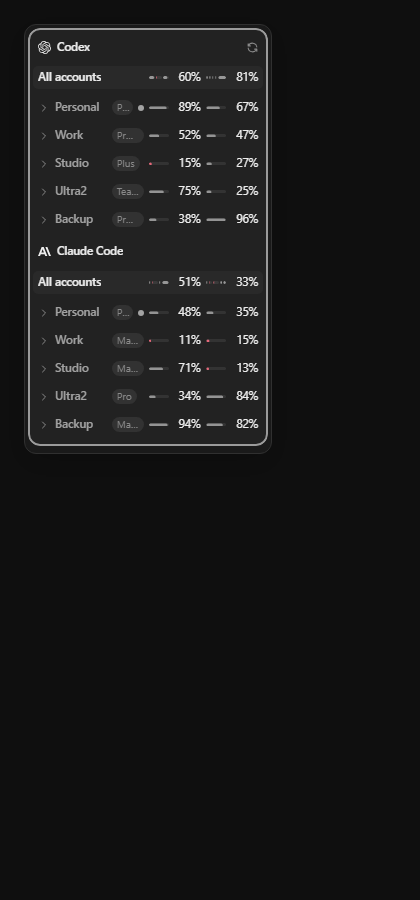
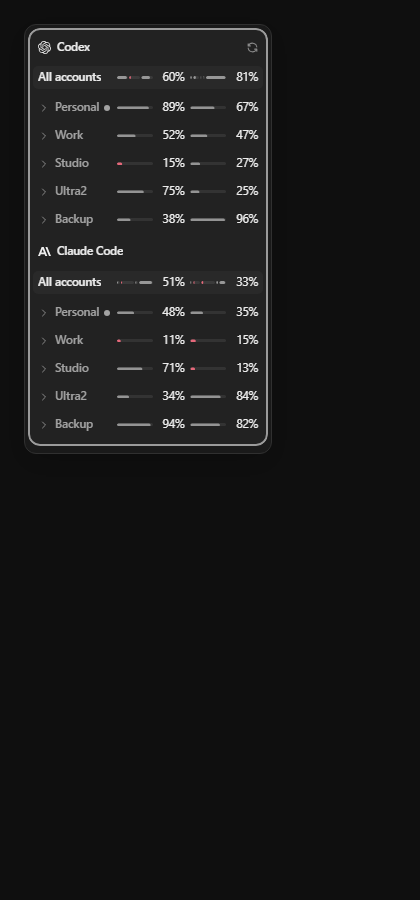
style(web): drop the plan chip from limits rows for longer bars, and fix the style tests #2143 broke
In the 5-account view the plan chips were cut to a letter and the bars were tiny. The plan is now on the line's hover and first in its open details; the bars are 36px. #2143 also failed four style tests on dev: the well's 50vh cap, the 3px closed-line bars, the chevron selector, and a hex colour plus the word gradient in the scroll fade's mask. The mask now uses black, and the tests allow a mask gradient but still no gradient fill.

Changed region(s): [[0.2786, 0.3111, 0.4952, 0.4978], [0.3714, 0.0622, 0.4952, 0.2489], [0.2786, 0.0933, 0.3405, 0.2489]]

diff --git a/apps/web/src/styles/account-limits-layout.test.ts b/apps/web/src/styles/account-limits-layout.test.ts
@@ -15,10 +15,10 @@ describe('account limits layout', () => {
     expect(usage).toContain('font-size: var(--t-xs)')
     expect(usage).toContain('border-radius: var(--r-lg)')
     expect(usage).toContain('background: color-mix(in srgb, var(--text) 4%, var(--menu-bg))')
-    // No height of its own: a fixed cap made the well scroll with the window
-    // nowhere near full once a provider listed several accounts. The popup's
-    // viewport bound and the well's flex shrink are what limit it.
-    expect(usage).not.toContain('max-height')
+    // However many accounts, the well never takes more than half the window;
+    // a longer list scrolls inside and fades at its bottom while rows wait.
+    expect(usage).toContain('max-height: 50vh')
+    expect(usage).toContain('animation-timeline: scroll(self)')
     expect(usage).toContain('flex: 0 1 auto')
     expect(usage).toContain('overflow-y: auto')
     expect(usage).toContain('overscroll-behavior: contain')
@@ -54,11 +54,13 @@ describe('account limits layout', () => {
     expect(rule('.account-menu__limit')).toContain('gap: 5px')
     const bar = rule('.account-menu__limit-bar')
     expect(bar).toContain('height: 4px')
-    expect(rule('.account-menu__account-gauge')).toContain('height: 4px')
+    // A closed account line's bars are the thin 3px kind, so a row stays one line.
+    expect(rule('.account-menu__account-gauge')).toContain('height: 3px')
     expect(bar).toContain('border-radius: var(--r-pill)')
     const fill = rule('.account-menu__limit-bar > span')
     // A red-to-green gradient read as noise; the fill matches the card's meter.
-    expect(css).not.toContain('gradient')
+    // The only gradient is the scroll fade's mask, never a fill.
+    expect(css.replace(/mask-image: linear-gradient\([^;]*\);/g, '')).not.toContain('gradient')
     expect(fill).toContain('background: color-mix(in srgb, var(--text) 52%, transparent)')
     expect(rule('.account-menu__account-gauge > span')).toContain(
       'background: color-mix(in srgb, var(--text) 52%, transparent)',
@@ -97,7 +99,7 @@ describe('account limits layout', () => {
       'text-overflow: ellipsis',
     )
     expect(css).toMatch(
-      /\.account-menu__account-line > svg,\s*\.account-menu__source \.account-menu__source-chevron \{\s*transition: none;/,
+      /\.account-menu__account-line > \.account-menu__chevron,\s*\.account-menu__source \.account-menu__source-chevron \{\s*transition: none;/,
     )
   })
 

diff --git a/apps/web/src/styles/account-limits.css b/apps/web/src/styles/account-limits.css
@@ -14,7 +14,7 @@
      no scroll range and never fades. */
   max-height: 50vh;
   --usage-fade-size: 22px;
-  mask-image: linear-gradient(to bottom, #000 calc(100% - var(--usage-fade)), transparent);
+  mask-image: linear-gradient(to bottom, black calc(100% - var(--usage-fade)), transparent);
   animation: account-usage-fade linear both;
   animation-timeline: scroll(self);
   animation-range: calc(100% - var(--usage-fade-size)) 100%;
@@ -591,7 +591,7 @@ button.account-menu__account-line:focus-visible {
 .account-menu__account-name {
   /* The name keeps a few letters before the plan chip gives way. */
   flex: 0 1 auto;
-  min-width: min(4.5em, 100%);
+  min-width: min(3em, 100%);
   overflow: hidden;
   font-weight: 500;
   text-overflow: ellipsis;
@@ -639,12 +639,12 @@ button.account-menu__account-line:focus-visible {
 
 /* A count or balance has no gauge; its text takes the gauge's room too. */
 .account-menu__account-value.is-text {
-  min-width: calc(2.4em + 24px);
+  min-width: calc(2.4em + 40px);
 }
 
 .account-menu__account-gauge {
   --limit-fill: var(--left);
-  width: 20px;
+  width: 36px;
   height: 3px;
   border-radius: var(--r-pill);
   background: color-mix(in srgb, var(--text) 9%, transparent);
@@ -667,20 +667,11 @@ button.account-menu__account-line:focus-visible {
   padding-left: 19px;
 }
 
-/* The account's plan: a quiet tag beside its name, in the bars' ink rather
-   than an accent, that shortens before the name does. */
+/* The account's plan, first in its open details; on the closed line it is
+   on hover only, so the name and two readable bars keep the room. */
 .account-menu__account-plan {
-  flex: 0 1 auto;
-  min-width: 0;
-  overflow: hidden;
-  text-overflow: ellipsis;
-  padding: 0 5px;
-  border-radius: var(--r-pill);
-  background: color-mix(in srgb, var(--text) 8%, transparent);
+  margin: 0;
   color: var(--text-3);
-  font-size: 10px;
-  line-height: 15px;
-  white-space: nowrap;
 }
 
 /* The account the pool recommends for the next chat: a small dot after its
@@ -720,7 +711,7 @@ button.account-menu__account-line:focus-visible {
 .account-menu__pool-bar {
   display: flex;
   gap: 1px;
-  width: 20px;
+  width: 36px;
   height: 3px;
 }
 

diff --git a/apps/web/src/ui/AccountLimits.tsx b/apps/web/src/ui/AccountLimits.tsx
@@ -361,11 +361,6 @@ function AccountLine(props: {
   const badge = (
     <>
       <span className="account-menu__account-name">{props.account}</span>
-      {props.plan ? (
-        <span className="account-menu__account-plan" title={props.plan}>
-          {props.plan}
-        </span>
-      ) : null}
       {props.recommended ? (
         <span
           className="account-menu__account-badge"
@@ -413,7 +408,7 @@ function AccountLine(props: {
           ]
             .filter(Boolean)
             .join(', ')}
-          title={props.open ? status?.detail : glance}
+          title={props.open ? status?.detail : [props.plan, glance].filter(Boolean).join(' · ')}
           onClick={props.onToggle}
         >
           <ChevronRight className="account-menu__chevron" size={12} aria-hidden />
@@ -454,6 +449,7 @@ function AccountLine(props: {
       </div>
       {props.open ? (
         <section className="account-menu__account-body" id={bodyId} aria-label={name}>
+          {props.plan ? <p className="account-menu__account-plan">{props.plan} plan</p> : null}
           {limits.map((limit, index) => (
             <LimitRow
               key={`${limit.label}:${index}`}

diff --git a/apps/web/src/ui/AccountLimits.test.tsx b/apps/web/src/ui/AccountLimits.test.tsx
@@ -471,10 +471,12 @@ describe('account limits', () => {
     const work = screen.getByRole('button', { name: /^Work, recommended, / })
     expect(within(work).getByText('Recommended')).toBeTruthy()
     expect(screen.getAllByText('Recommended')).toHaveLength(1)
-    // Each line names its plan as the pool knows it.
-    expect(within(work).getByText('Max x5')).toBeTruthy()
+    // A closed line names its plan on hover; the open details name it first.
+    expect(work.title).toMatch(/^Max x5 · /)
+    expect(within(work).queryByText('Max x5')).toBeNull()
+    fireEvent.click(work)
     expect(
-      within(screen.getByRole('button', { name: /^Studio, / })).getByText('Max x20'),
+      within(screen.getByRole('region', { name: 'Claude Code · Work' })).getByText('Max x5 plan'),
     ).toBeTruthy()
   })
 

diff --git a/apps/web/src/styles/limit-bars.test.ts b/apps/web/src/styles/limit-bars.test.ts
@@ -31,7 +31,9 @@ describe('plan-limit bars', () => {
     // No provider colour and no gradient on a limit: only the charts keep the brand.
     expect(usageMeter).not.toContain('--usage-ink')
     expect(rule(usage, '.settings .usage-limit__fill')).not.toContain('--usage-ink')
-    expect(`${popup}\n${usage}`).not.toContain('gradient')
+    // The popup's scroll fade masks with a gradient; no limit is drawn with one.
+    const fills = `${popup}\n${usage}`.replace(/mask-image: linear-gradient\([^;]*\);/g, '')
+    expect(fills).not.toContain('gradient')
   })
 
   it('turns only the fill of a nearly spent window the error colour', () => {
